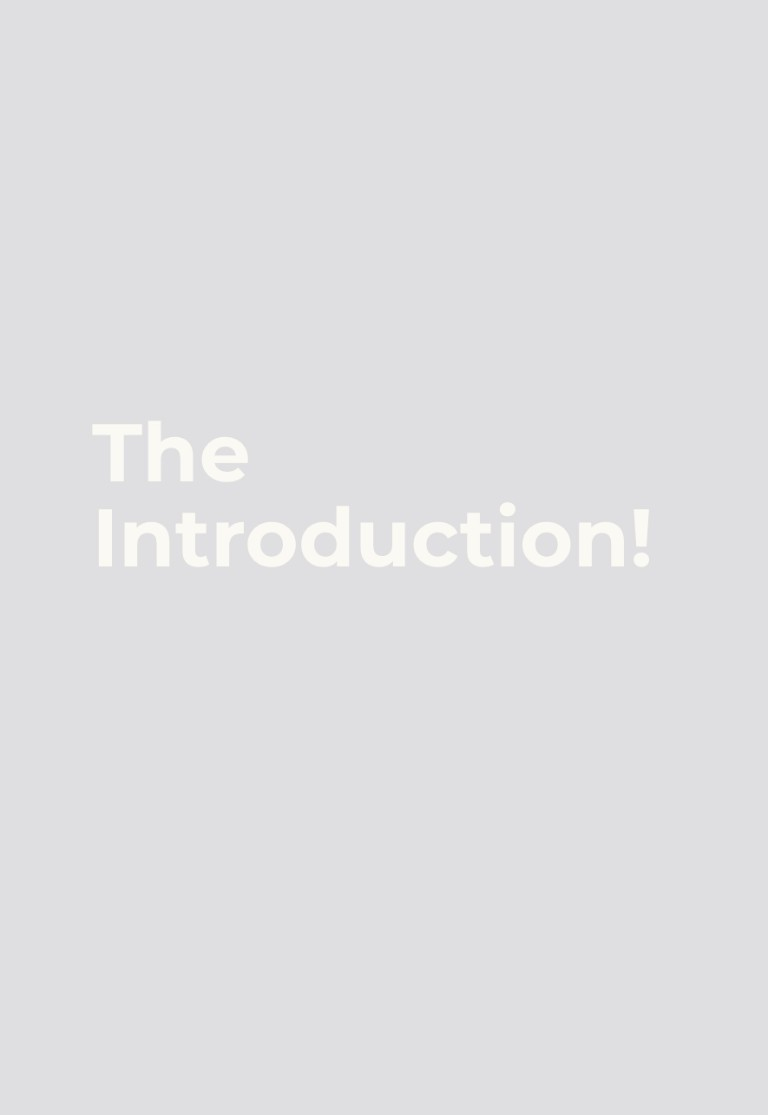
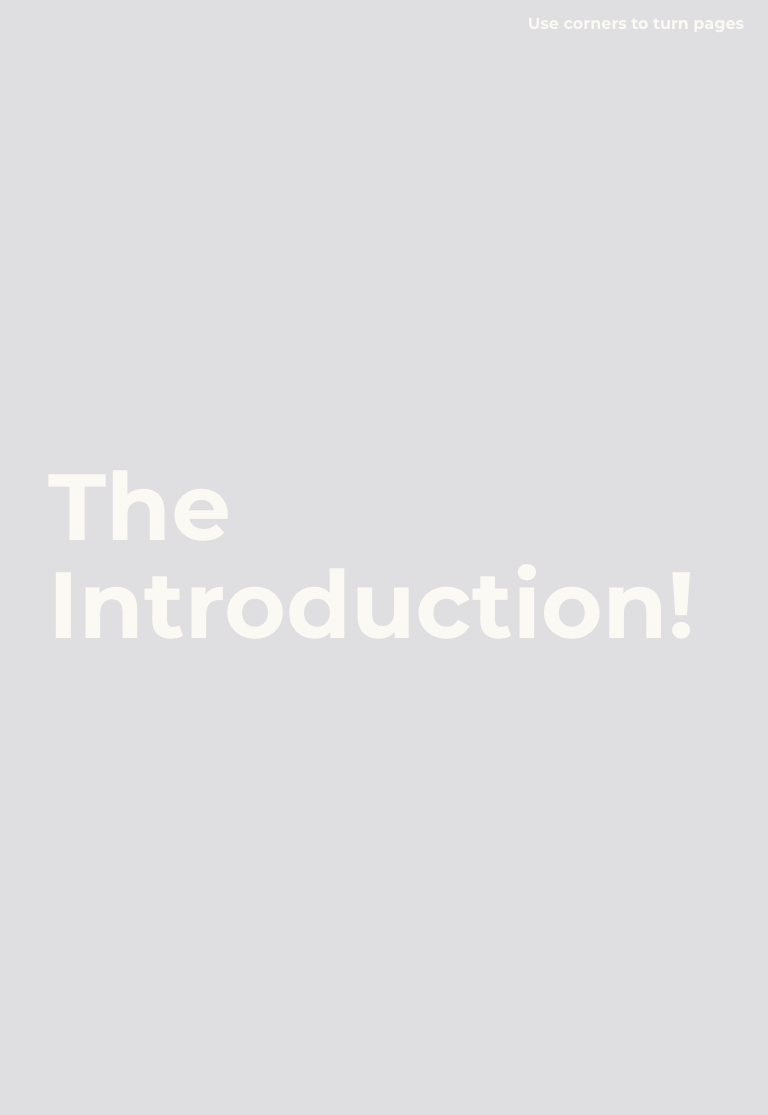
update styling

Changed region(s): [[0.0625, 0.3659, 0.9062, 0.5794], [0.9062, 0.0, 0.9688, 0.0305], [0.6875, 0.0, 0.7188, 0.0305]]

diff --git a/asset/css/style2.css b/asset/css/style2.css
@@ -149,7 +149,7 @@ div.jumbotron .jumbotron-fluid {
   background-color: #fbf9f3;
 }
 .jumbotron {
-  padding: 2rem 1rem;
+  padding: 0rem 1rem;
   margin-bottom: 2rem;
   background-color: #fbf9f3;
   border-radius: .3rem;
@@ -196,16 +196,28 @@ p.lead{
   margin-bottom:0;
  
 }
+
+.footer-info{
+	padding-top: 58px;
+	float: right;
+}
 .footer-info h4{
   font-family: 'Montserrat';
-  font-size: 24px;
+  font-size: 16px;
   text-align: right;
+  line-height: .2;
 }
 
 .footer-info p{
   font-family: 'lato';
   font-size: 16px;
   text-align: right;
+  font-weight: 100;
+  margin-bottom: 10px;
+}
+
+.footStuff{
+	margin-top: -78px;
 }
 
 .footStuff h1{
@@ -220,6 +232,7 @@ p.lead{
 #WDlogo {
   height: auto;
   width: 14em;
+  float: right;
 }
 
 .introtext {
@@ -250,12 +263,15 @@ p.lead{
 	.ccontatiner {
 		/*margin-left: 3.9%;*/
 	}
+	a.navbar-brand{
+		font-size: 1.75rem;
+	}
 	.navbar {
 		padding: 0;
 		margin: 1.6% 0 1.6% 0;
 	}
 	.container {
-		padding-top: 3em;
+		padding-top: 0em;
 	}
 	p.lead {
 		font-size: 1rem;
@@ -266,20 +282,34 @@ p.lead{
 	#banner {
 	}
 	#footer h1 {
-		margin: 0px 0px 15px 0px;
+		margin: 0px 0px 16px 0px;
 		font-size: 34px;
 	}
 	#footer h4 {
-		font-size: 18px;
+		font-size: 14px;
 	}
 	#footer p {
 		font-size: 14px;
 	}
 	.footer-info {
 		margin: 0 0 0 0;
+		text-align:left;
+		float:left;
+		padding-top: 0px;
+	}
+	.footer-info h4{
+		text-align: left;
+	}
+	.footer-info p{
+		text-align: left;
+		margin-bottom: 10px;
+	}
+	.footStuff{
+		margin-top: -118px;
 	}
 	#WDlogo {
 		width: 12em;
+		float: left;
 }
 }
 
@@ -296,7 +326,7 @@ p.lead{
 	}
 	
 	.container {
-		padding-top: 3em;
+		padding-top: 0em;
 		margin-left: 8em;
 	}
 	
@@ -308,13 +338,14 @@ p.lead{
 		font-size: 54px;
 	}
 	#footer h4 {
-		font-size: 18px;
+		font-size: 16px;
 	}
 	#footer p {
 		font-size: 14px;
 	}
 	.footer-info {
 		margin: 0% 0% 0% 0%;
+		float: right;
 	}
 	#WDlogo {
 		width: 12em;
@@ -332,15 +363,15 @@ p.lead{
 		margin: 1.6% 0 1.6% 0;
 	}
 	.container {
-		padding-top: 4em;
+		padding-top: 0em;
 		padding-left: 6em;
 	}
 	#banner {
-		height: 18vh;
+		/* height: 18vh; */
 	}
 	
 	#footer h1 {
-		margin: 0% 0% 145px 0%;
+		margin: 0% 0% 54px 0%;
 		width: 350px;
 		height: 91px;
 		-webkit-text-stroke: 3px #33e1ed;
@@ -365,8 +396,7 @@ p.lead{
 		letter-spacing: normal;
 		text-align: right;
 		color: #1e1e2c;
-		padding-top: 10%;
-
+		/* padding-top: 10%; */
 	}
 	
 	#footer p {

diff --git a/index.html b/index.html
@@ -25,9 +25,9 @@
     <nav class="navbar">
       <a class="navbar-brand" href="#">Baseline.</a>
     </nav>
-<!--     <div class="jumbotron jumbotron-fluid" id="banner">
+    <div class="jumbotron jumbotron-fluid" id="banner">
       <div class="container">
-        <div class="squiggle">
+        <!-- <div class="squiggle">
           <svg xmlns="http://www.w3.org/2000/svg" width="94.376" height="8.866" viewBox="0 0 94.376 8.866">
             <defs>
               <style>
@@ -61,9 +61,9 @@
           </svg>      <h2 class="issue1">01.</h2>
       </div>
   
-        <p class="lead">05.05.2020</p>
+        <p class="lead">05.05.2020</p> -->
       </div>
-    </div> -->
+    </div>
   </header>
 
   <!-- FLIP BOOK -->
@@ -122,14 +122,14 @@
       </div>
 
    <div class="col-md-8">
-    <div class="footer-info" style ="float: right;">
+    <div class="footer-info" style ="">
       <h4>INFOSYS x WONGDOODY</h4>
       <p>75 Fountain St. Providence, RI <br>
         Phone +1 401.369.7060<br>
         david.devine@wongdoody.com<br>
 		Coded by Alicia Chan, Saad Zafar<br>
       </p>
-      <img id="WDlogo" style="float:right;" src="asset/images/WDlogonew.png"/>
+      <img id="WDlogo"  src="asset/images/WDlogonew.png"/>
    </div>  
   </div>
       </div>
